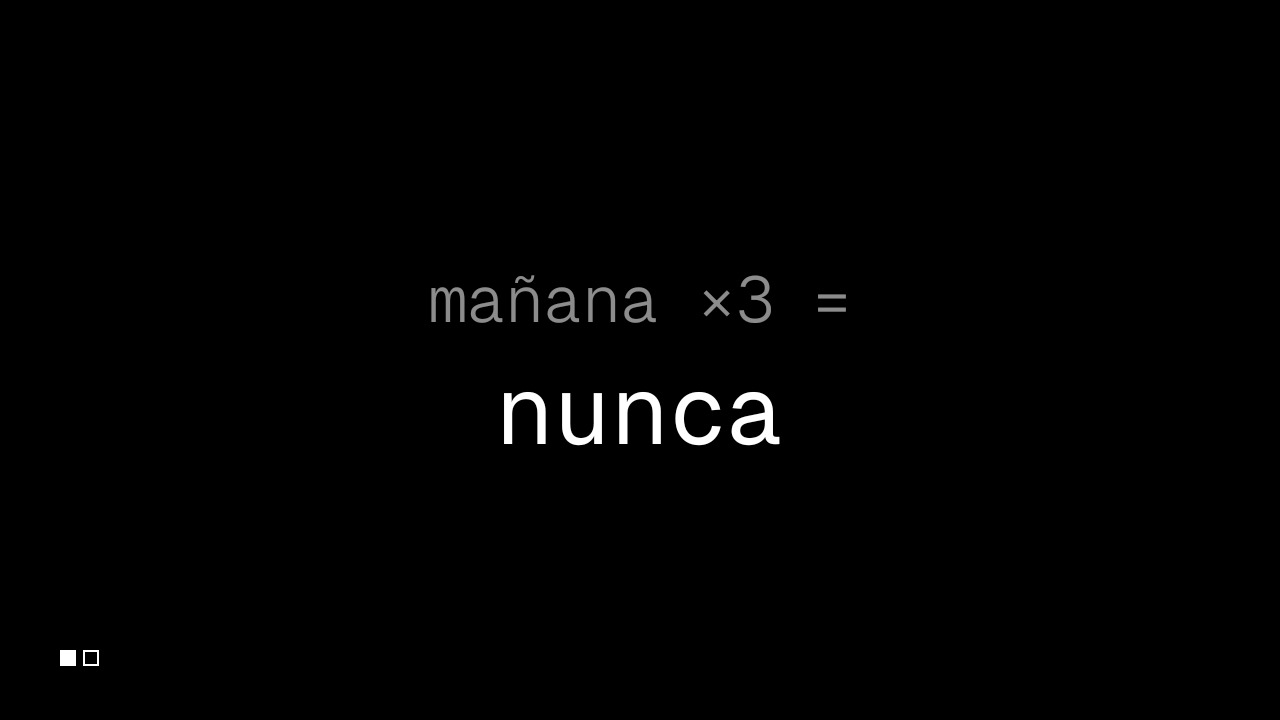
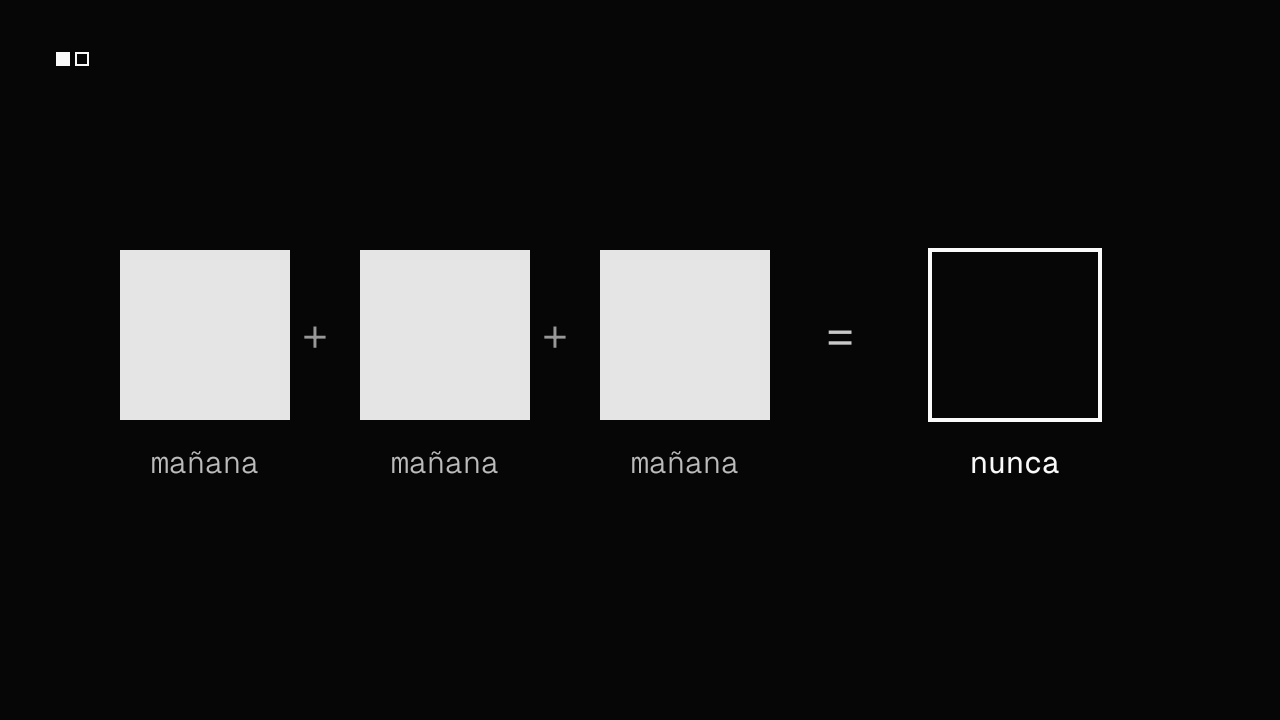
Miniatura ep01: versión A (ecuación en cuadrados)
Claude-Session: https://claude.ai/code/session_01K7TT2WKwQDWyVHeTuDdzw2

diff --git a/youtube/ep01/thumb2.js b/youtube/ep01/thumb2.js
@@ -1,0 +1,34 @@
+const { Canvas, FontLibrary } = require('skia-canvas'); const fs = require('fs');
+const FD = '/tmp/claude-0/-home-claude/525290eb-24d3-57f0-908c-10012545278e/scratchpad/reel/fonts/'; FontLibrary.use('Geist Mono', fs.readdirSync(FD).map(f => FD + f));
+const W = 1280, H = 720;
+function mk(name, inv, draw) {
+  const c = new Canvas(W, H), o = c.getContext('2d'), fg = inv ? '#0a0a0a' : '#fafafa', bg = inv ? '#f4f4f2' : '#060606';
+  o.fillStyle = bg; o.fillRect(0, 0, W, H);
+  const T = (s, x, y, sz, a = 1, w = 300, al = 'center') => { o.font = `${w} ${sz}px "Geist Mono"`; o.globalAlpha = a; o.fillStyle = fg; o.textAlign = al; o.textBaseline = 'middle'; o.fillText(s, x, y); o.globalAlpha = 1; return o.measureText(s).width; };
+  const R = (x, y, w, h, a = 1) => { o.globalAlpha = a; o.fillStyle = fg; o.fillRect(x, y, w, h); o.globalAlpha = 1; };
+  const B = (x, y, w, h, lw = 3, a = 1) => { o.globalAlpha = a; o.strokeStyle = fg; o.lineWidth = lw; o.strokeRect(x, y, w, h); o.globalAlpha = 1; };
+  draw({ o, T, R, B });
+  // marca discreta arriba a la izquierda (abajo a la derecha lo tapa la duración)
+  R(56, 52, 14, 14); B(76, 53, 12, 12, 2);
+  c.toFileSync(`${__dirname}/${name}.jpg`, { quality: .95 });
+}
+// A — la ecuación en cuadrados: tres llenos (mañana) = uno vacío (nunca)
+mk('mini-A', 0, ({ T, R, B }) => {
+  const s = 170, y = 250, xs = [120, 360, 600];
+  xs.forEach(x => { R(x, y, s, s, .92); T('mañana', x + s / 2, y + s + 42, 30, .75); });
+  T('+', 315, y + s / 2, 44, .6); T('+', 555, y + s / 2, 44, .6); T('=', 840, y + s / 2, 52, .8);
+  B(930, y, s, s, 4); T('nunca', 930 + s / 2, y + s + 42, 30, 1, 400);
+});
+// B — tachado: mañana → hoy
+mk('mini-B', 0, ({ T, R, B }) => {
+  const y = 340, w1 = T('mañana', 250, y, 92, .45, 300, 'left'); R(236, y - 2, w1 + 28, 6, .9);
+  T('hoy.', 300 + w1 + 70, y, 92, 1, 400, 'left');
+  B(300 + w1 + 40, y - 95, 270, 190, 4);
+});
+// C — invertido: 7 días, ninguno hecho
+mk('mini-C', 1, ({ T, R, B }) => {
+  const s = 120, gp = 30, x0 = (W - (7 * s + 6 * gp)) / 2, y = 250;
+  for (let i = 0; i < 7; i++) { B(x0 + i * (s + gp), y, s, s, 3, .9); T('mañana', x0 + i * (s + gp) + s / 2, y + s + 36, 20, .6); }
+  T('0 / 7', W / 2, 160, 56, 1, 400);
+});
+['A', 'B', 'C'].forEach(()=>0);
